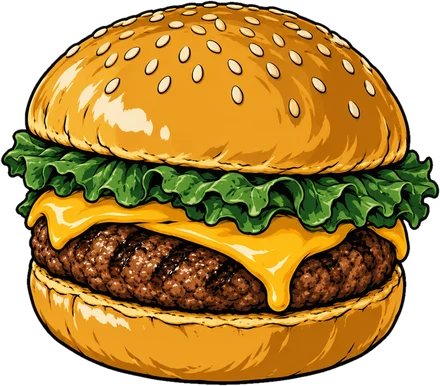
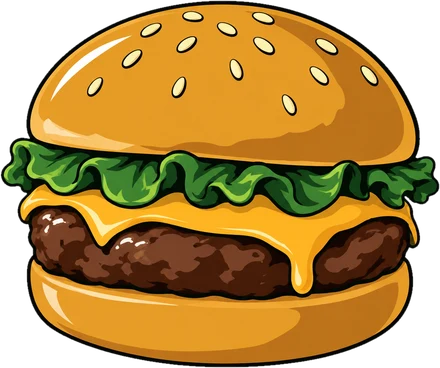
Happy Hour uses an approved beer mug; new rounded light bulb, burger and wings
- Happy Hour drawing = one mug cut from the approved beers-clinking art plus
  a cleaner clock
- Light bulb: rounded bulb with radiating lines (after the Trivia Tuesdays poster)
- Burger and wings redone in the beer mugs' ink style
- Title belt kept (approved). Figma section 55:37 now v8.

diff --git a/components/Decor.tsx b/components/Decor.tsx
@@ -37,10 +37,10 @@ const ASPECT: Record<DecorName, number> = {
   "foam-finger": 248 / 440,
   "mma-gloves": 415 / 440,
   "baseball-bat": 440 / 282,
-  burger: 440 / 386,
-  wings: 440 / 313,
-  "happy-hour": 440 / 417,
-  lightbulb: 196 / 440,
+  burger: 440 / 368,
+  wings: 440 / 355,
+  "happy-hour": 440 / 377,
+  lightbulb: 375 / 440,
   "title-belt": 440 / 253,
 };
 
